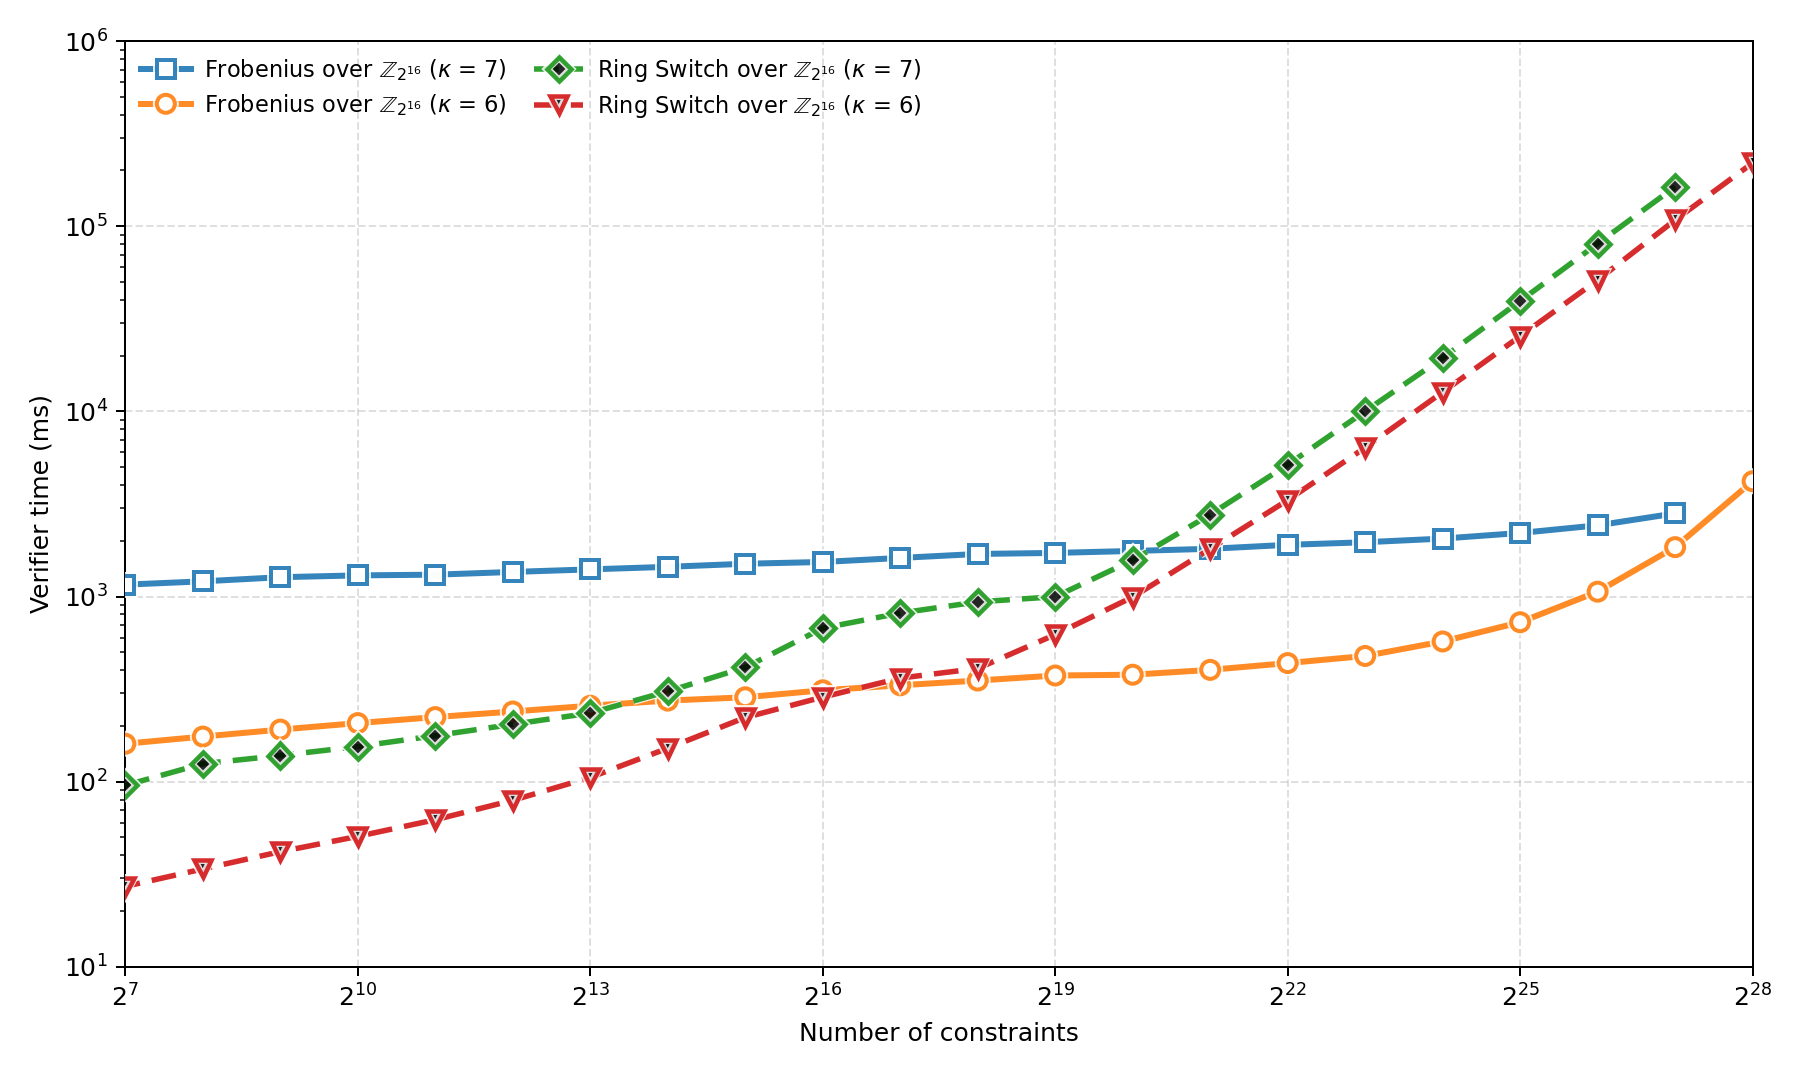
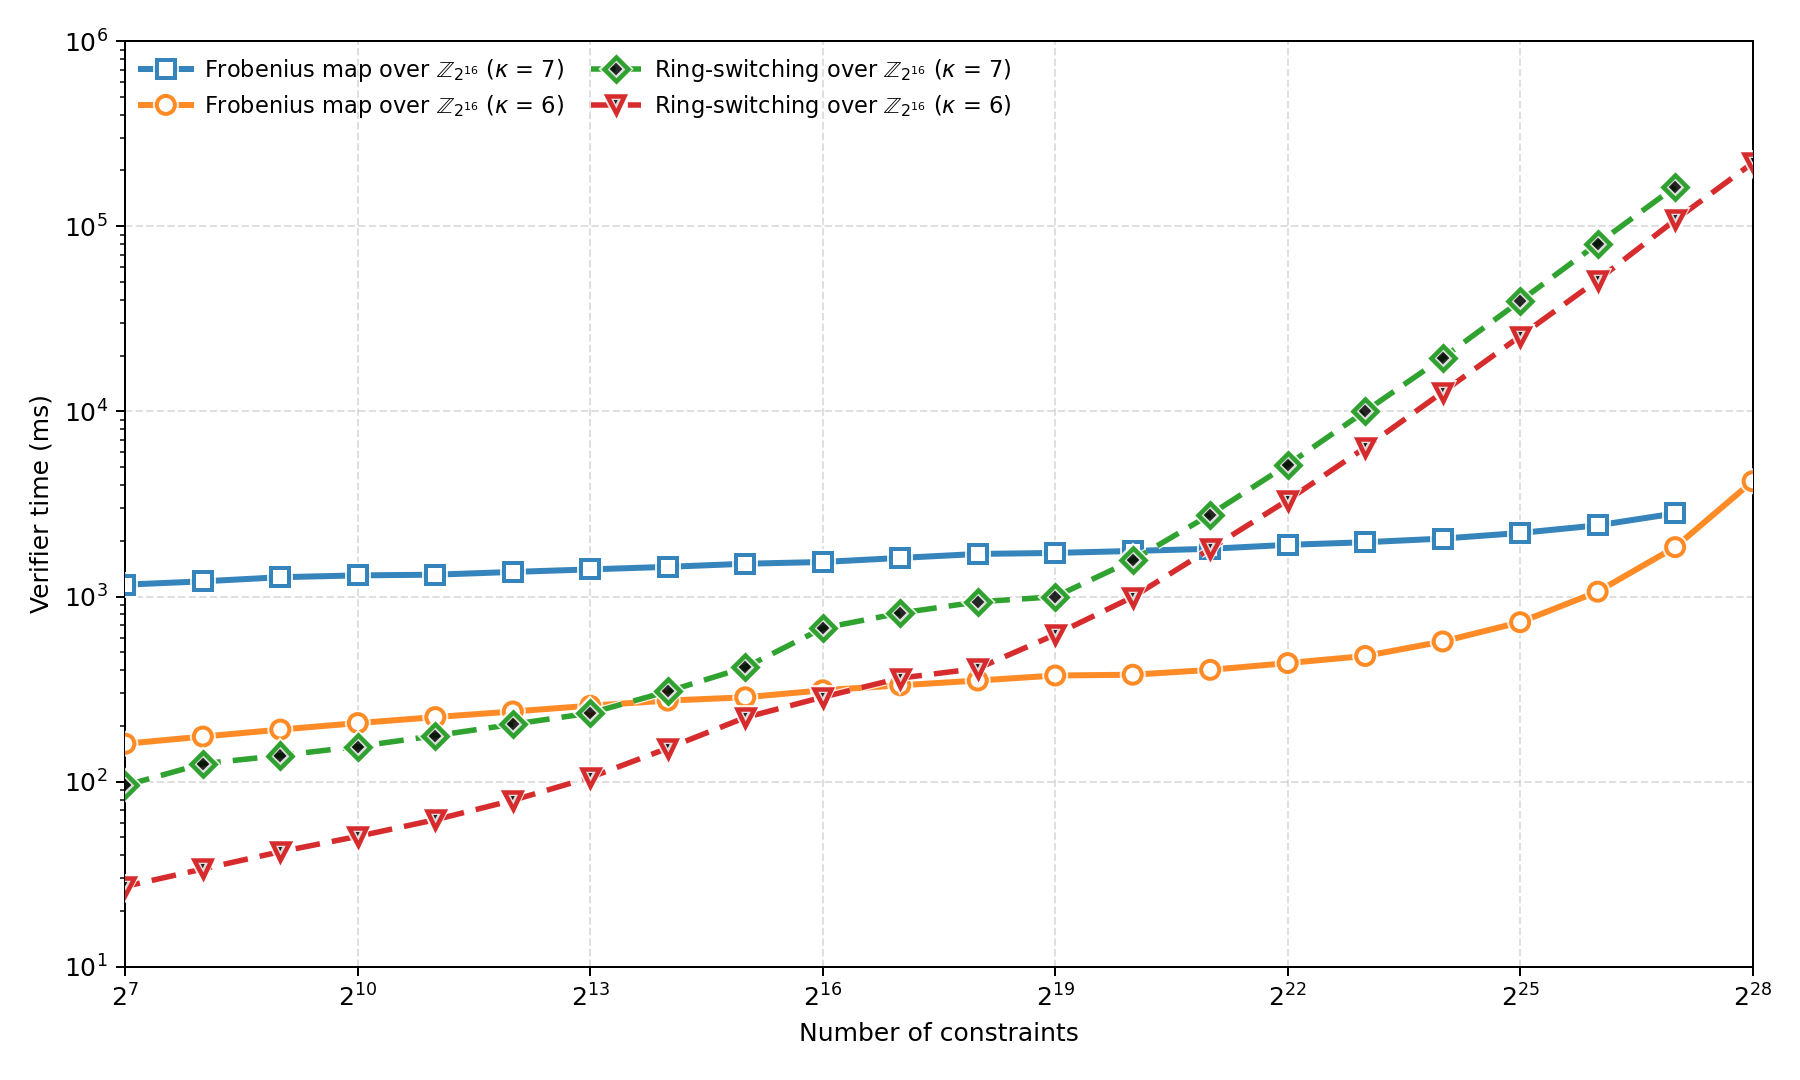
feat(plots): add display names for families and improve label formatting

Changed region(s): [[0.1244, 0.0611, 0.56, 0.1222]]

diff --git a/scripts/plot_benchmark_results.py b/scripts/plot_benchmark_results.py
@@ -162,6 +162,11 @@ _SPECIAL_FAMILY_LABELS = {
     "ligero_based": "Ligero-PCS",
 }
 
+_FAMILY_DISPLAY_NAMES = {
+    "frobenius": "Frobenius map",
+    "ring_switch": "Ring-switching",
+}
+
 _BACKEND_CONTEXT_DOMAIN_LABELS = {
     "field-255": r"$\mathbb{F}_{2^{255}-19}$",
     "field-f2p256": r"$\mathbb{F}_{2^{256}}$",
@@ -208,6 +213,9 @@ def _context_series_label(csv_path: Path, labels: set[str]) -> str:
 def _display_family_name(raw_family: str | None) -> str | None:
     if not raw_family:
         return None
+    mapped_name = _FAMILY_DISPLAY_NAMES.get(raw_family)
+    if mapped_name is not None:
+        return mapped_name
     words = raw_family.replace("_", " ").split()
     if not words:
         return None
@@ -222,7 +230,7 @@ def _math_gr_label(raw_label: str) -> str | None:
 
     left = re.sub(r"\^(\d+)", r"^{\1}", match.group(1).strip())
     right = match.group(2).strip()
-    return rf"$GR({left}, {right})$"
+    return rf"$\mathrm{{GR}}({left}, {right})$"
 
 
 def _math_z2k_label(raw_label: str) -> str | None:
@@ -533,7 +541,7 @@ def plot_metric_vs_constraints(
             # Keep coordinates exact while separating nearly identical
             # compiler curves via line style and marker treatment.
             lower_label = series.label.lower()
-            if "ring switch" in lower_label:
+            if "ring switch" in lower_label or "ring-switch" in lower_label:
                 linestyle = (0, (4.5, 2.2))
                 linewidth = 2.2
                 markersize = 6.8
